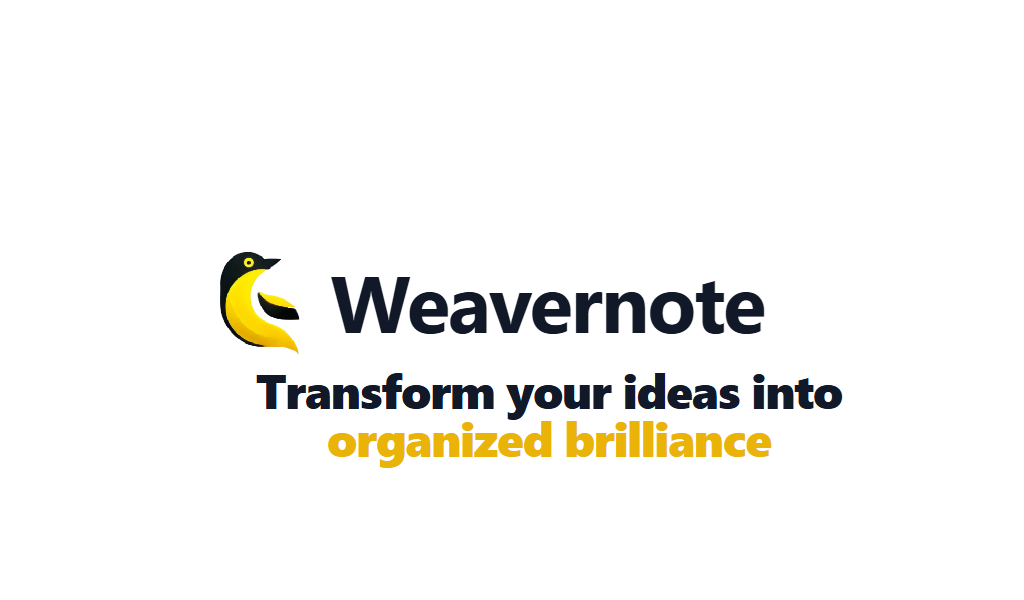
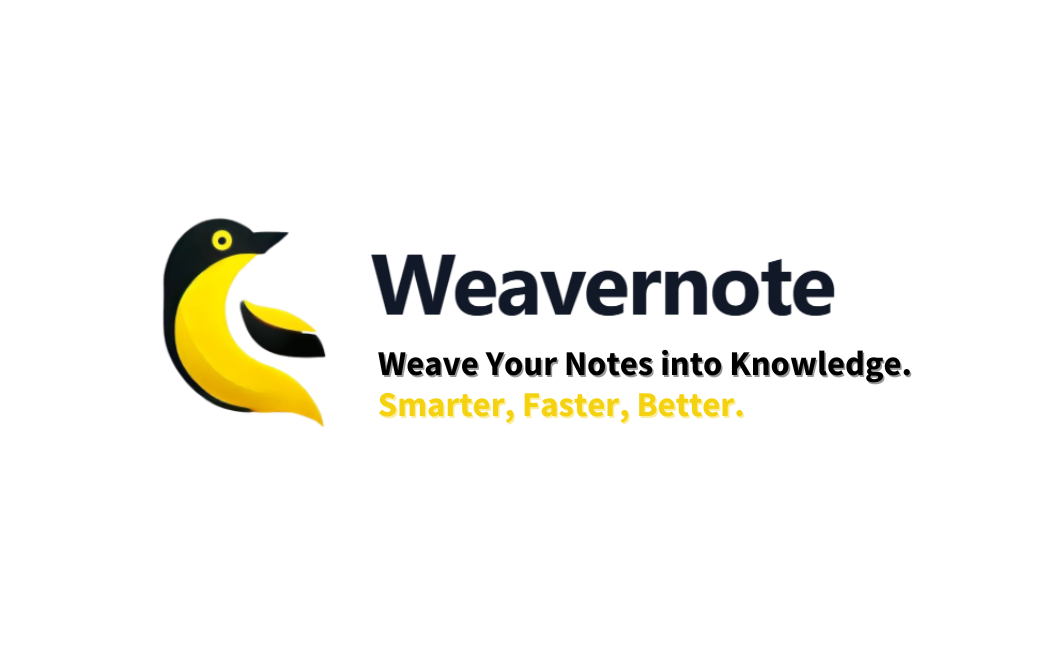
Social Media Optimized

Changed region(s): [[0.1562, 0.33, 0.875, 0.78]]

diff --git a/index.html b/index.html
@@ -4,8 +4,20 @@
     <meta charset="UTF-8" />
     <link rel="icon" type="image/png" href="./favicon.png" />
     <meta name="viewport" content="width=device-width, initial-scale=1.0" />
-    <meta name="description" content="Weavernote - Transform your ideas into organized brilliance. A modern note-taking app designed for the way your mind works." />
+    <meta name="description" content="Weave Your Notes into Knowledge. Smarter, Faster, Better." />
     <meta name="theme-color" content="#eab308" />
+    <!-- Open Graph / Facebook -->
+    <meta property="og:type" content="website" />
+    <meta property="og:url" content="https://weavernote.com/" />
+    <meta property="og:title" content="Weave your thoughts, empower your creativity" />
+    <meta property="og:description" content="Weave Your Notes into Knowledge. Smarter, Faster, Better." />
+    <meta property="og:image" content="./media/banner.png" />
+    <!-- Twitter -->
+    <meta name="twitter:card" content="summary_large_image" />
+    <meta name="twitter:url" content="https://weavernote.com/" />
+    <meta name="twitter:title" content="Weave your thoughts, empower your creativity" />
+    <meta name="twitter:description" content="Weave Your Notes into Knowledge. Smarter, Faster, Better." />
+    <meta name="twitter:image" content="./media/banner.png" />
     <title>Weavernote</title>
   </head>
   <body>
